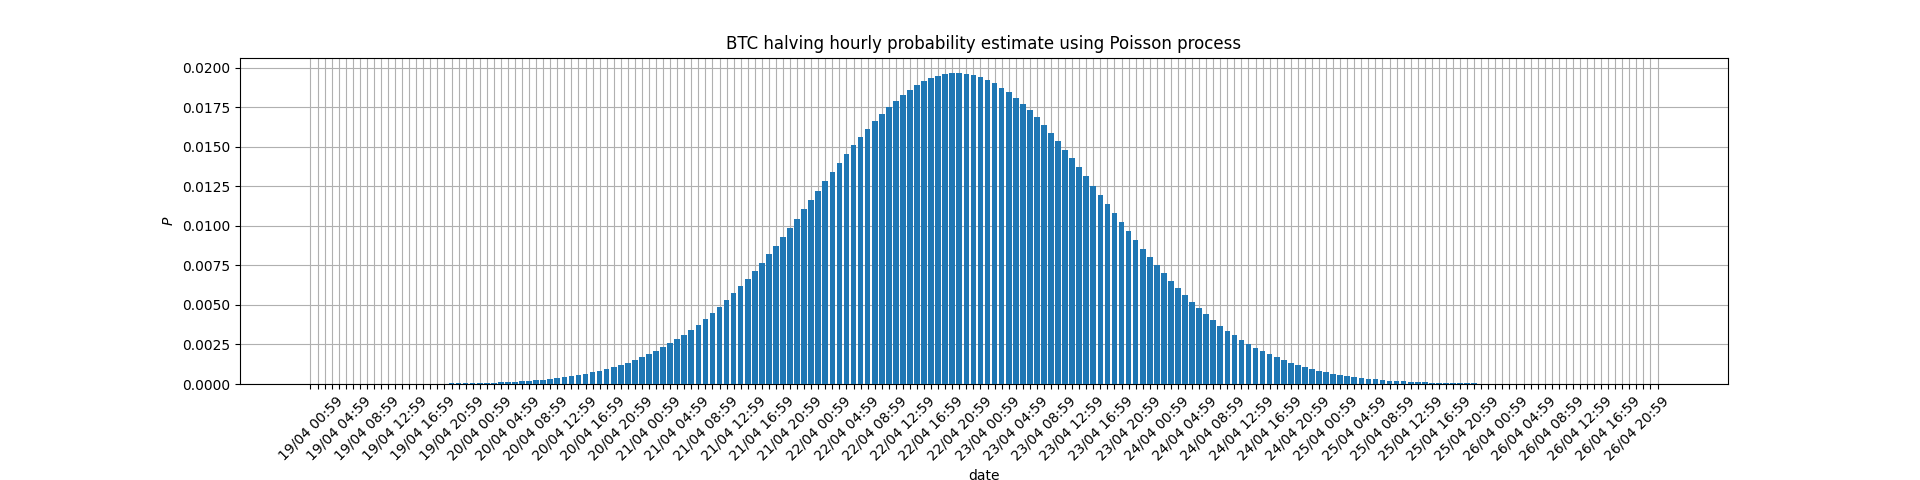
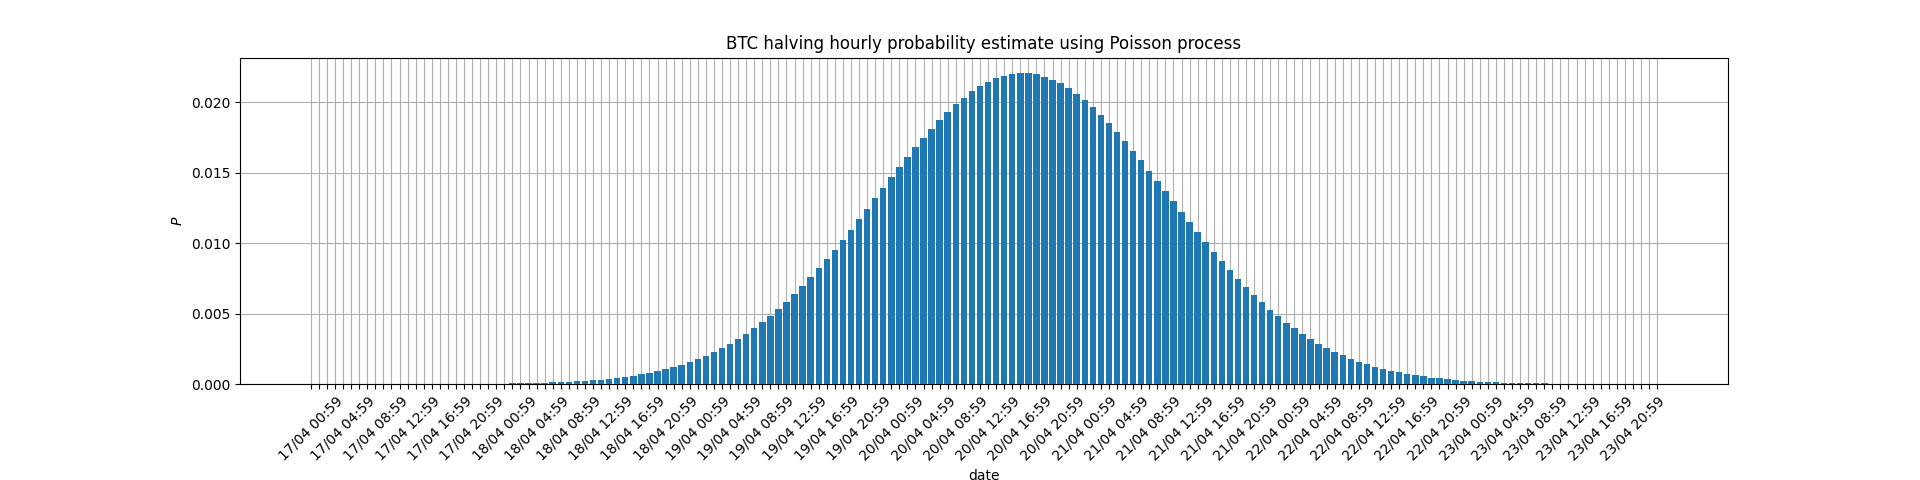
Updated the data

diff --git a/poisson.py b/poisson.py
@@ -2,17 +2,17 @@ from datetime import datetime, timedelta
 from helpers import poipmf, bar_plot
 
 # timestamp of last block
-last_block_ts = 1704705814
+last_block_ts = 1706440191
 
 # average interval between blocks in minutes
-mu = 585.7997 / 60
+mu = 588.2566 / 60
 
 # rate of events per unit of time
 r = 1.0 / mu
 
 # print(r)
 
-current_block = 824453
+current_block = 827781
 halving_interval = 210000
 
 # get the next halving block
@@ -28,8 +28,8 @@ k = halving - current_block
 now = datetime.fromtimestamp(last_block_ts) # datetime.now()
 print('last block mined', now)
 
-estimate_start = datetime(2024, 4, 19, 0, 0, 0)
-estimate_stop = datetime(2024, 4, 27, 0, 0, 0)
+estimate_start = datetime(2024, 4, 17, 0, 0, 0)
+estimate_stop = datetime(2024, 4, 24, 0, 0, 0)
 
 probs = []
 dates = []

diff --git a/poisson_hourly.py b/poisson_hourly.py
@@ -2,17 +2,17 @@ from datetime import datetime, timedelta
 from helpers import poipmf, bar_plot
 
 # timestamp of last block
-last_block_ts = 1704705814
+last_block_ts = 1706440191
 
 # average interval between blocks in minutes
-mu = 585.7997 / 60
+mu = 588.2566 / 60
 
 # rate of events per unit of time
 r = 1.0 / mu
 
 # print(r)
 
-current_block = 824453
+current_block = 827781
 halving_interval = 210000
 
 # get the next halving block
@@ -28,8 +28,8 @@ k = halving - current_block
 now = datetime.fromtimestamp(last_block_ts) # datetime.now()
 print('last block mined', now)
 
-estimate_start = datetime(2024, 4, 19, 0, 0, 0)
-estimate_stop = datetime(2024, 4, 27, 0, 0, 0)
+estimate_start = datetime(2024, 4, 17, 0, 0, 0)
+estimate_stop = datetime(2024, 4, 24, 0, 0, 0)
 
 probs = []
 dates = []

diff --git a/README.md b/README.md
@@ -21,15 +21,14 @@ Computing the distribution at each minute each date (of given range), summing ov
 
 ```sh
 $ python poisson.py 
-last block mined 2024-01-08 10:23:34
-19/04 0.0003364912800734537
-20/04 0.013638496278878743
-21/04 0.14350182239877776
-22/04 0.41417933219677
-23/04 0.34120760599558747
-24/04 0.08142180790257529
-25/04 0.0056041267524674955
-26/04 0.00011031719486980381
+last block mined 2024-01-28 12:09:51
+17/04 0.00013980407783522532
+18/04 0.011156454543201392
+19/04 0.1626784826721654
+20/04 0.47860653358099275
+21/04 0.3040300538689585
+22/04 0.042142848103684044
+23/04 0.0012458231531628271
 ```
 
 and bar plot
